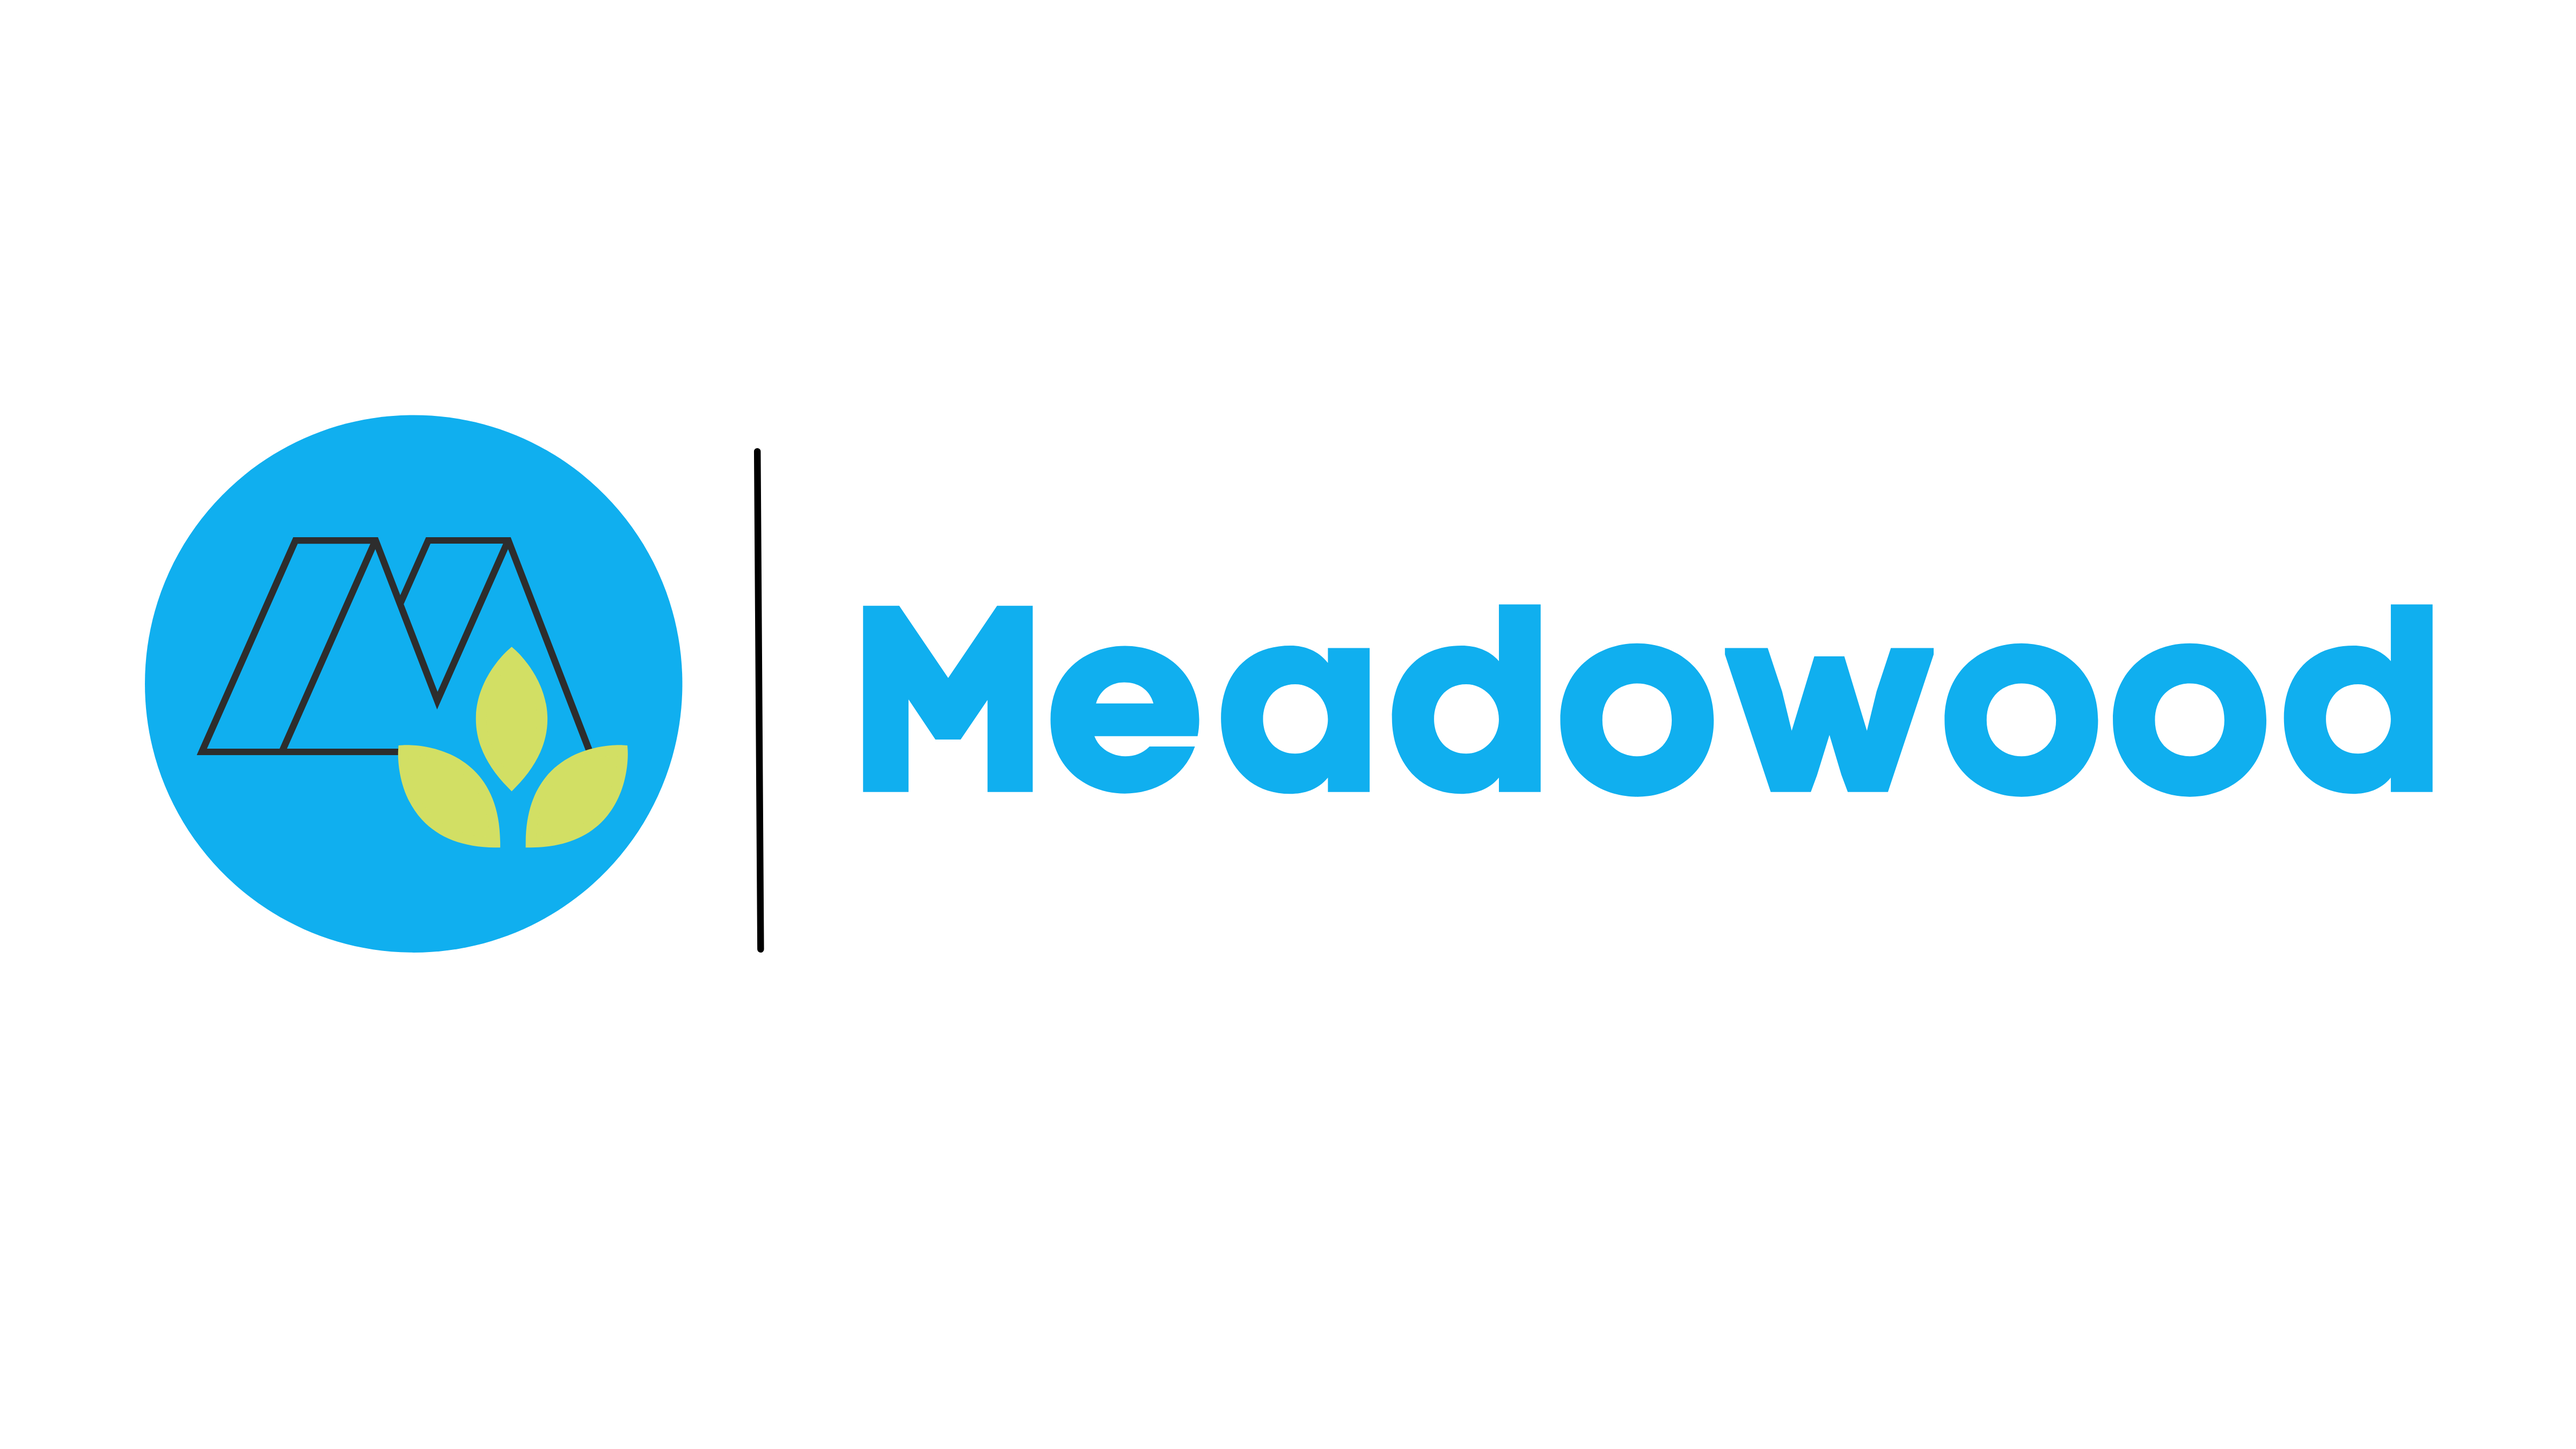
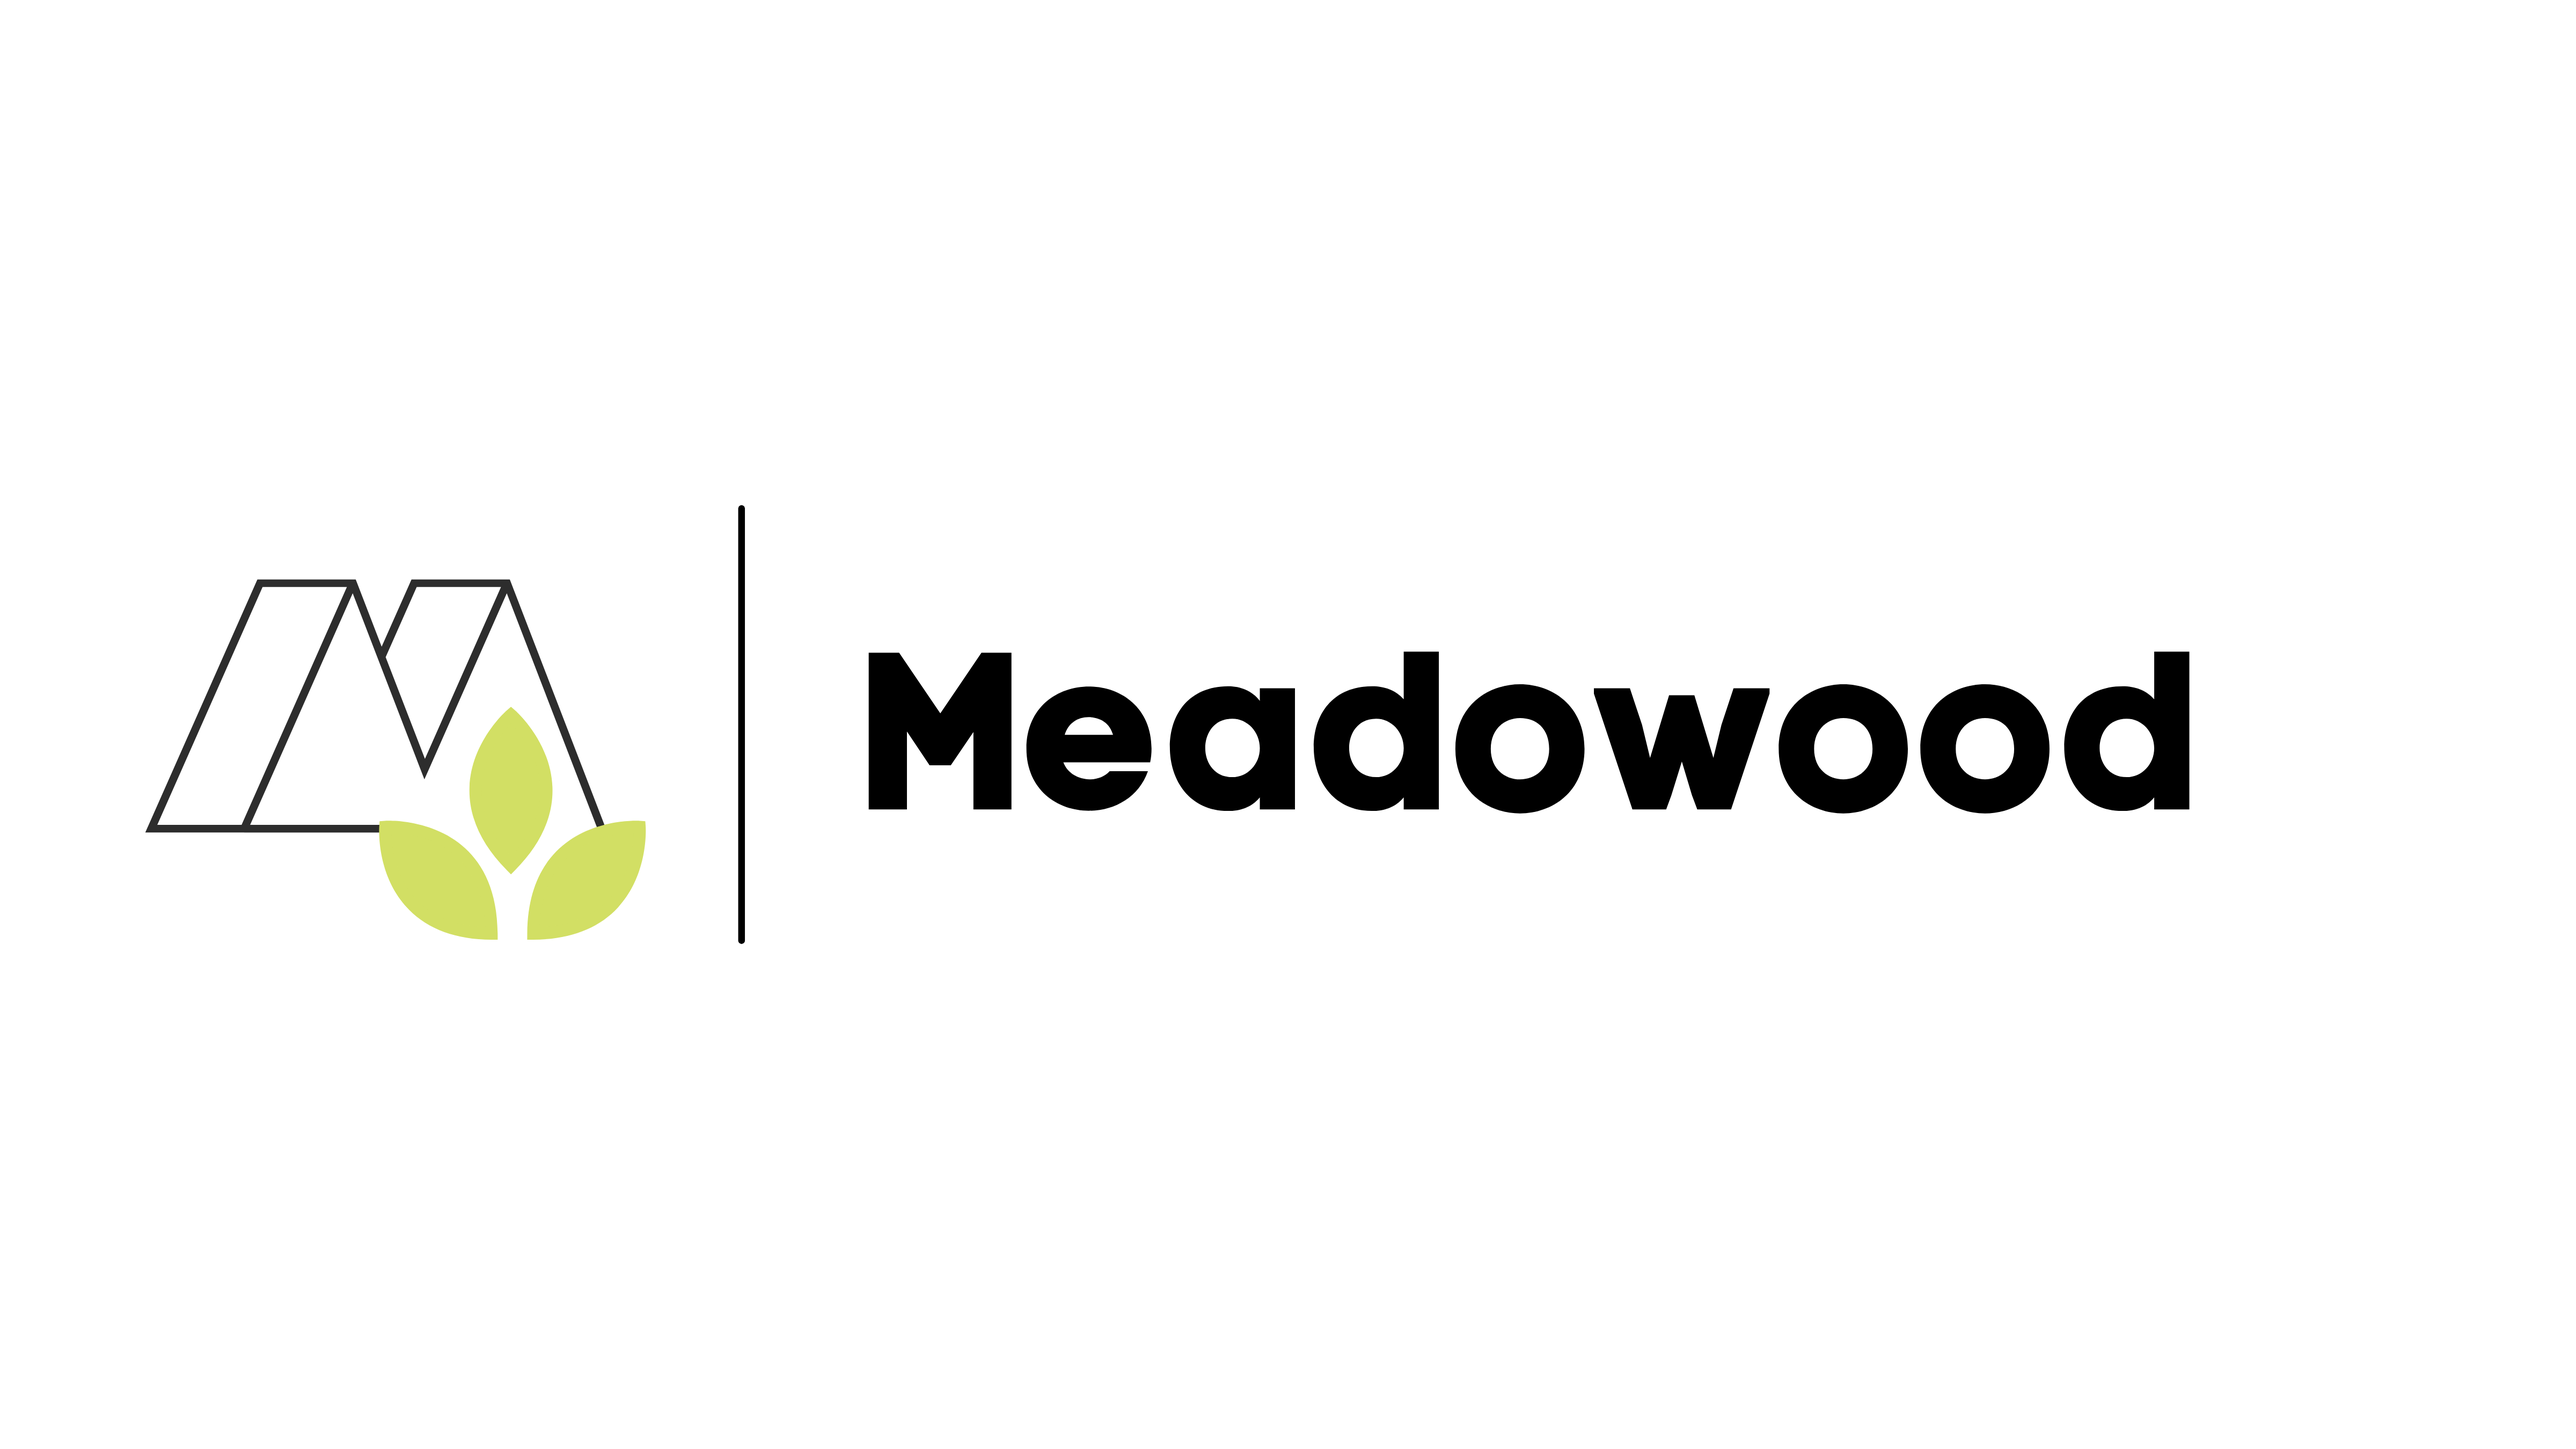
Changed color scheme on the project to be more light mode

Changed region(s): [[0.0312, 0.28, 0.9688, 0.6533]]

diff --git a/src/Components/Homepage.js b/src/Components/Homepage.js
@@ -9,9 +9,9 @@ function Homepage() {
                     <Row className="fpr1">
                         <div className="col-md-4 fpcard clock">
                             <center>
-                                <img className="col-6 fpimg" src="Images/clock2.png" />
+                                <img className="col-4 fpimg" src="Images/clock2.png" />
                                 <br />
-                                <h4 className="makeGreen">
+                                <h4 className="mainLink">
                                     10am Sunday School
                                     <br />
                                     11am Worship
@@ -23,19 +23,19 @@ function Homepage() {
                                 <Link to={"/schedule"} className="notUnderlined">
                                 <img className="col-6" src="Images/cal.png" />
                                 <br />
-                                <h4 className="makeGreen">
-                                    Find community
+                                <h4 className="mainLink">
+                                    Our events
                                 </h4>
                                 </Link>
                             </center>
                         </div>
                         <div className="col-md-4 fpcard">
                             <center>
-                                <a target="_blank" href="https://www.youtube.com/@pastordunn" className="ytLink">
-                                    <img className="col-6 fpimg yt" src="Images/youtube.png" />
+                                <a target="_blank" href="https://www.youtube.com/@pastordunn" className="ytLink mainLink">
+                                    <img className="col-4 fpimg" src="Images/youtube.png" />
                                     <br />
-                                    <h4 className="makeGreen">
-                                        Watch now!
+                                    <h4 className="mainLink">
+                                        We have streams every Sunday and Wednesday!
                                     </h4>
                                 </a>
                             </center>
@@ -45,13 +45,13 @@ function Homepage() {
             </div>
             <Container>
                 <Row className="fpr2">
-                    <center>
                         <div className="positioning1">
                             <p className="heading">
+                                <center>
                                 Get connected!
+                                </center>
                             </p>
                         </div>
-                    </center>
                 </Row>
                 {/* </Container> */}
                 <Link to={"/kids"}>
@@ -59,7 +59,7 @@ function Homepage() {
                         <img className="fphimg clock" src="Images/kids.png" />
                         <div className="text">
                             <center>
-                                <h1>Kids!</h1>
+                                <h1>Kids</h1>
                             </center>
                         </div>
                     </div>
@@ -69,7 +69,7 @@ function Homepage() {
                         <img className="fphimg" src="Images/youth.png" />
                         <div className="text">
                             <center>
-                                <h1>Youth!</h1>
+                                <h1>Youth</h1>
                             </center>
                         </div>
                     </div>
@@ -79,17 +79,17 @@ function Homepage() {
                         <img className="fphimg" src="Images/youngadults.png" />
                         <div className="text">
                             <center>
-                                <h1>Young Adults!</h1>
+                                <h1>Young Adults</h1>
                             </center>
                         </div>
                     </div>
                 </Link>
                 <Link to={"/foodpantry"}>
                     <div className="fadein">
-                        <img wclassName="fphimg" src="Images/foodpantry.png" />
+                        <img className="fphimg" src="Images/foodpantry.png" />
                         <div className="text">
                             <center>
-                                <h1>Food Pantry!</h1>
+                                <h1>Benevolence</h1>
                             </center>
                         </div>
                     </div>

diff --git a/src/Styles/style.css b/src/Styles/style.css
@@ -1,15 +1,23 @@
 * {
-  color: white;
+  color: rgb(0, 0, 0);
 }
 body {
-  background-color: rgb(0, 0, 0);
+  background-color: white;
 }
 /* Navbar */
 .nav-img {
     width: 50%;
 }
-.navbar {
-  background-color: white;
+
+/* colors */
+.black {
+  background-color: black!important;
+}
+.white {
+  background-color: white!important;
+}
+.almostWhite {
+  background-color: rgb(234, 234, 234)!important;
 }
 
 /* Page 1 */
@@ -36,13 +44,14 @@ body {
 }
 .heading {
   font-size: 20px;
-  background-color: #2EB0EA;
-  color: #d3df65;
+  background-color: #dedede;
+  color: #000000;
   padding: 7px;
-  width: 250px;
+  width: 200px;
 } 
 .fphimg {
-width: 100%;
+  width: 100%;
+  border-radius: 20px;
 }
 .containImg {
   position: relative;
@@ -50,8 +59,9 @@ width: 100%;
   color: white;
 }
 .positioning1 {
-  position: absolute;
-  margin-top: 10px;
+  position:absolute;
+  margin-top: -15px;
+  margin-left: 20px;
   z-index: 2;
 }
 .ytLink {
@@ -77,13 +87,14 @@ width: 100%;
 .notUnderlined {
   text-decoration: none;
 }
-.fprow {
-  /* background-color: #2EB0EA; */
+/* .fprow {
+  background-color: #2EB0EA;
   background-color: black;
+} */
+.mainLink:hover {
+  color: #b4b4b4;
 }
-.makeGreen {
-  color: #d3df65;
-}
+
 
 /* ministries */
 .crd {
@@ -92,7 +103,7 @@ width: 100%;
 }
 .slideImg {
   height: 650px;
-  opacity: 50%;
+  opacity: 80%;
 }
 .slideLabel {
   font-size: 55px;
@@ -127,8 +138,10 @@ width: 100%;
 
 /* Schedule */
 .eItem {
-  background-color: #000;
-  border: 2px white solid;
+  border: 2px rgb(99, 99, 99) solid;
+  border-top: none;
+  border-radius: 20px!important;
+  margin: 10px;
 }
 .vertical-menu {
   margin-top: 50px;
@@ -143,16 +156,19 @@ width: 100%;
 /* Photo fading */
 .fadein {
   position: relative;
+  background-color: #000;
+  margin: 5px 0px;
+  border-radius: 20px;
+
 }
 .fadein img {
   width: 100%;
   opacity: 1;
-  margin: 40px 0px;
   transition: opacity 0.3s ease-in-out;
   -webkit-transition: opacity 0.3s ease-in-out;
 }
 .fadein:hover img {
-  opacity: 0.3;
+  opacity: 0.7;
 }
 .fadein .text {
   position: absolute;
@@ -185,7 +201,7 @@ width: 100%;
   .heading {
     padding: 20px;
     font-size: 30px;
-    width: 600px;
+    width: 350px;
   }
 }
 @media (min-width: 992px) {
@@ -201,6 +217,7 @@ width: 100%;
     }
     .heading {
       font-size: 40px;
+      width: 550px;
     }
     .miniHeader {
       font-size: 50px;

diff --git a/src/Components/Home.js b/src/Components/Home.js
@@ -4,7 +4,7 @@ import { Link, Outlet } from "react-router-dom"
 function Home() {
   return (
     <div>
-      <Navbar className="nav-color" expand="lg" variant="light">
+      <Navbar className="almostWhite" expand="lg" variant="light">
         <Container>
           <img className="nav-img" src="Images/5.png" />
           <Navbar.Toggle aria-controls="basic-navbar-nav" />
@@ -12,7 +12,7 @@ function Home() {
             <Nav >
               <Link className="nav-link hover-effect" to="/">Home</Link>
               {/* <Link className="nav-link hover-effect" to="/ministries">Ministries</Link> */}
-              <Link className="nav-link hover-effect" to="/schedule">Schedule</Link>
+              <Link className="nav-link hover-effect" to="/schedule">Events</Link>
               <Link className="nav-link hover-effect" to="/about">About us</Link>
               <NavDropdown title="Ministries" id="basic-nav-dropdown">
                 <Link to="/kids" className="notUnderlined">

diff --git a/src/Components/Schedule.js b/src/Components/Schedule.js
@@ -15,7 +15,7 @@ function Schedule() {
         } else {
             return events.map((event) => {
                 return (
-                    <ListGroup.Item className='eItem' key={event.eventId}>
+                    <ListGroup.Item className='eItem almostWhite' key={event.eventId}>
                         <h2>
                             {event.title}
                         </h2>
